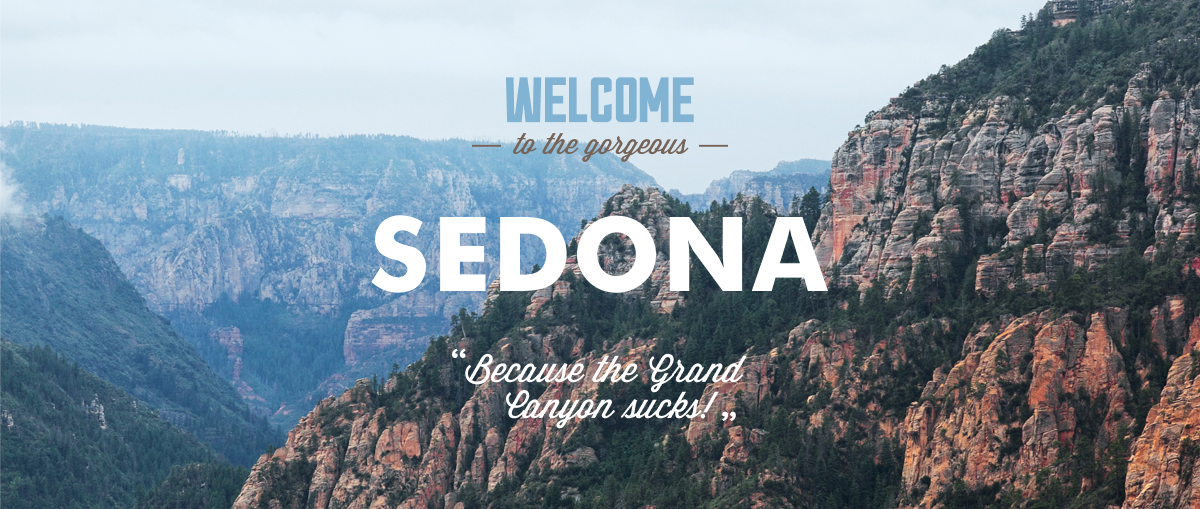
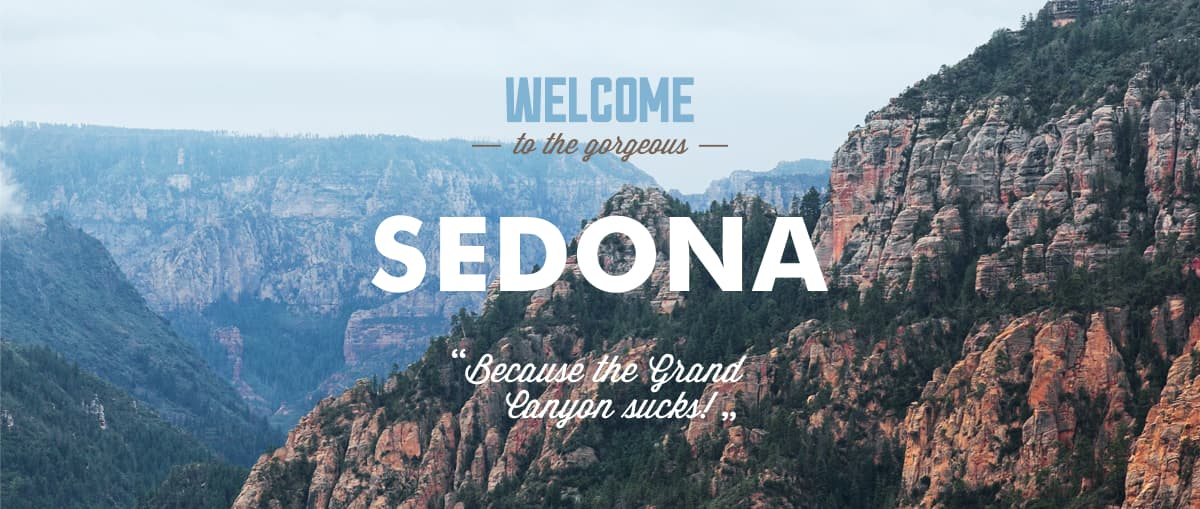
Правка меню навигации
Дополнительно:  оптимизировано изображение header-a

Changed region(s): [[0.4008, 0.7073, 0.6167, 0.8251], [0.4317, 0.2652, 0.5858, 0.3242], [0.9867, 0.7367, 1.0, 0.7662]]

diff --git a/css/style.css b/css/style.css
@@ -72,16 +72,15 @@
   overflow: hidden;
 }
 
-
-.header{
+.header {
   position: relative;
 }
 
-.header__logo{
+.header__logo {
   position: absolute;
   left: 50%;
   top: 0;
-  margin-left: -69px;
+  transform: translateX(-50%);
   z-index: 1;
 }
 
@@ -110,17 +109,16 @@
   opacity: 0.3;
 }
 
-.header__img{
+.header__img {
   background-image: url(../img/index/header-img.jpg);
   background-repeat: no-repeat;
   background-size: 100% auto;
   width: 100%;
   min-height: 509px;
-  position:relative;
-
+  position: relative;
 }
 
-.header__img::after{
+.header__img::after {
   content: "";
   position: absolute;
   background: url(../img/index/envelope.svg) no-repeat;
@@ -145,7 +143,7 @@
   margin: 41.5px auto 16.5px;
 }
 
-.about__subtext{
+.about__subtext {
   margin-bottom: 51px;
   line-height: 26px;
 }
@@ -179,7 +177,7 @@
   font-weight: 700;
 }
 
-.features__text{
+.features__text {
   width: 302px;
   margin: 23px auto 54px;
 }
@@ -219,7 +217,6 @@
 }
 
 .list__item {
- 
 }
 
 .list__text {
@@ -249,7 +246,6 @@
   width: 436px;
   line-height: 24px;
   margin: 40px auto 50px;
-  
 }
 
 .reservation__button {
@@ -521,7 +517,7 @@
   grid-template-columns: 1fr 800px;
 }
 
-.features__container--revers{
+.features__container--revers {
   grid-template-columns: 800px 1fr;
   color: var(--basic-white);
   background-color: var(--basic-blue);
@@ -543,15 +539,15 @@
   text-align: center;
 }
 
-.icon__home{
+.icon__home {
   margin: 60px auto 28px;
 }
 
-.icon__food{
-margin: 61px auto 29px;
+.icon__food {
+  margin: 61px auto 29px;
 }
 
-.icon__gift{
+.icon__gift {
   margin: 56px auto 28px;
 }
 
@@ -599,27 +595,26 @@ margin: 61px auto 29px;
   display: flex;
 }
 
-.filter__form fieldset:last-child{
+.filter__form fieldset:last-child {
   margin-left: auto;
-  
 }
 
-.nav__list{
+.nav__list {
   display: flex;
   flex-wrap: wrap;
   padding: 15px 72px;
 }
 
-.nav__item{
-margin-right: 134px;
+.nav__item {
+  width: 25%;
 }
 
 .nav__item:nth-child(3),
-.nav__item:nth-child(7){
-  margin-left: 297px;
+.nav__item:nth-child(4) {
+  text-align: right;
 }
 
-.nav__item:nth-child(4),
-.nav__item:nth-child(8){
-  margin-right: 0;
+.nav__item:nth-child(7),
+.nav__item:nth-child(8) {
+  text-align: right;
 }
